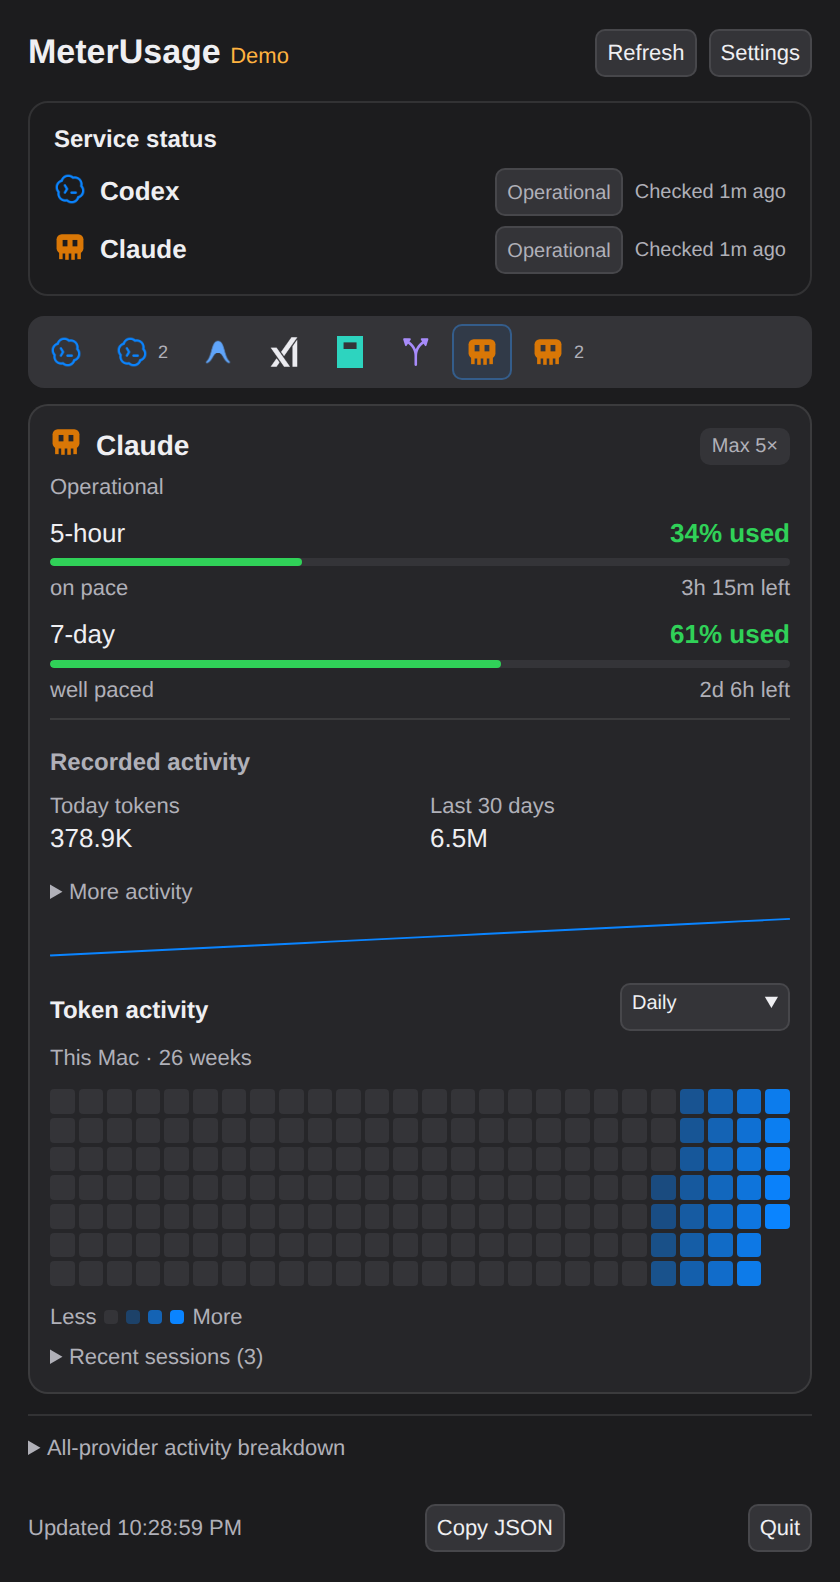
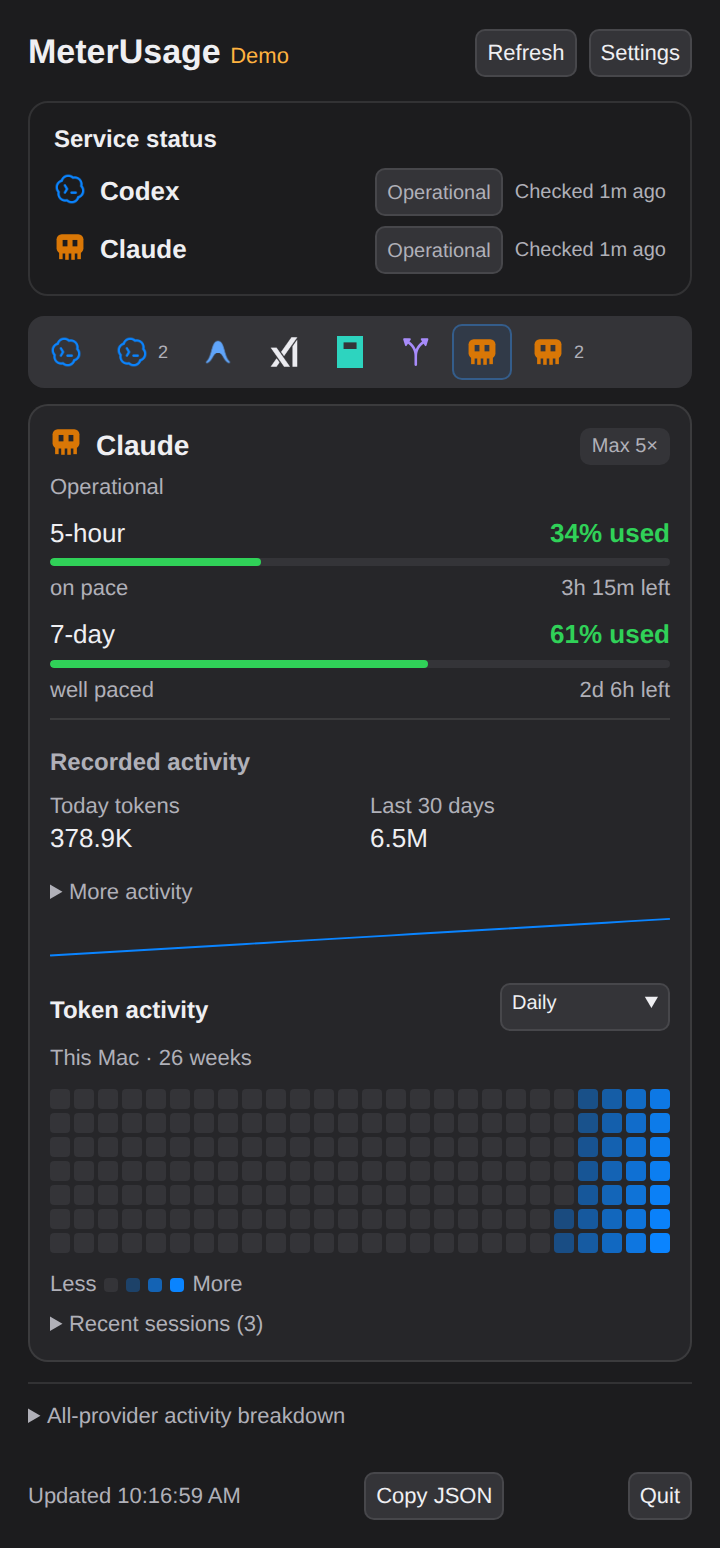
docs: document public beta 4, build 73

diff --git a/README.md b/README.md
@@ -12,7 +12,7 @@ Swift app remains the stable download and rollback option during migration.
 
 | Edition | Current status | Setup and behavior |
 | --- | --- | --- |
-| Electron 0.3.0-beta.1, build 54 | Public beta for Apple silicon, macOS 13+; signed and notarized | [Download beta](https://github.com/pekth/meterusage/releases/tag/v0.3.0-beta.1) · [Beta guide](docs/BETA.md) |
+| Electron 0.3.0-beta.4, build 73 | Public beta for Apple silicon, macOS 13+; signed and notarized | [Download beta](https://github.com/pekth/meterusage/releases/tag/v0.3.0-beta.4) · [Beta guide](docs/BETA.md) |
 | Legacy Swift 0.2.41 | Frozen for new features; published stable download and migration rollback | [Swift guide](docs/swift/README.md) |
 
 Electron is the active app for new features. Swift remains the stable download
@@ -29,26 +29,19 @@ and the [version strategy](docs/VERSIONS.md).
   <img src="docs/images/beta-notch-claude.png" alt="Electron beta hover card and compact side-notch usage rail" width="256">
 </p>
 
-Synthetic demo captures of build 54's renderer. Claude Desktop provides allowance,
-not a chat-history heatmap. See the [full screenshot gallery and capture details](docs/SCREENSHOTS.md)
+Synthetic demo captures of build 61's renderer. Claude Desktop provides allowance,
+not chat history; its heatmap shows daily quota used across devices. See the [full screenshot gallery and capture details](docs/SCREENSHOTS.md)
 for Codex, Claude, side notch and Settings.
 
 The beta includes Codex browser sign-in/account history, optional Claude Desktop
 allowance, existing CLI sources, compact provider tabs and hover cards, provider
 reordering and readable token totals. Account coverage depends on the source.
-Build 54 keeps Grok Beta CLI-only; Antigravity desktop login is follow-up work.
-Current source additionally offers opt-in [Grok Bot Desktop Beta](docs/DESKTOP-CONNECTIONS.md#grok-bot-desktop-beta).
-Sign in through Grok Bot Desktop first, then approve read-only access.
-Native/live allowance, X and shared-pool coverage remain unverified.
-Current source also adds separate [OpenAI API and Anthropic API billing snapshots](docs/API_USAGE_BETA.md)
-through Settings → API connections with a saved legacy Admin key, a one-time
-Admin key, or the bundled environment-only helper. Existing Keychain entries
-are preserved; pasted keys are not saved. OpenRouter keeps its existing
-account balance and aggregate activity integration.
-Unreleased source adds opt-in [Muse Code CLI allowance](docs/DESKTOP-CONNECTIONS.md#muse-code-cli).
-Muse.ai cloud/Desktop connection is separate and remains pending.
-Build 54's Settings footer incorrectly says `0.2.41`; the packaged version is
-`0.3.0-beta.1`. See [known beta limits](docs/BETA.md#known-limits).
+The beta also includes Antigravity Desktop allowance, Grok Bot Desktop (Beta),
+key-free OpenCode Go local setup and separate [API billing](docs/API_USAGE_BETA.md)
+under Settings → API connections. Reuse a legacy saved Admin key or enter a
+one-time key. Pasted keys are not saved. OpenRouter retains its existing balance
+and activity integration. Desktop compatibility and billing coverage vary;
+see [known beta limits](docs/BETA.md#known-limits).
 
 ## Stable Swift installation
 
@@ -74,38 +67,40 @@ fall back to compilation. See the [Swift installation guide](docs/swift/README.m
 
 ## Setup and data coverage
 
-The original nine provider adapters remain in the retained Swift and candidate source:
+All nine provider adapters remain in the retained Swift and candidate source:
 Codex, Claude Code, Antigravity, OpenRouter, Grok, OpenCode Go, Cursor, Copilot
 CLI and Gemini CLI. Their inputs and available measurements differ. The
 [Swift provider matrix](docs/swift/README.md#provider-matrix) describes existing
-CLI/local collection. The [Electron source choices](docs/electron/README.md#source-choices)
+CLI/local collection. The [Electron source choices](https://github.com/pekth/meterusage/blob/v0.3.0-beta.4/docs/electron/README.md#source-choices)
 also describe optional Codex browser sign-in and Claude Desktop allowance.
 
 Local activity covers this Mac. Provider-reported account data has its own
 coverage limits. Missing tokens remain unknown. Local token costs are estimates; optional API
 billing cards label provider-reported amounts separately. Provider dashboards
-remain the billing source of record. Read the [privacy contract](docs/PRIVACY.md)
-before changing a data source or sharing screenshots.
+remain the billing source of record. Read the [beta privacy contract](https://github.com/pekth/meterusage/blob/v0.3.0-beta.4/docs/PRIVACY.md)
+for Electron or the [Swift privacy contract](docs/PRIVACY.md) before changing a
+data source or sharing screenshots.
 
 ## Can both editions coexist?
 
-Both source trees remain during migration; the intended end state is one
+The beta tag contains the Electron source and retained Swift tree. The default
+branch retains stable Swift source during migration; the intended end state is one
 Electron app. Normal-profile side-by-side installation is unsafe:
 the app name, bundle ID and default preferences/data locations are shared.
-Use only the documented [isolated candidate QA profiles](docs/electron/README.md#isolated-qa)
+Use only the documented [isolated candidate QA profiles](https://github.com/pekth/meterusage/blob/v0.3.0-beta.4/docs/electron/README.md#isolated-qa)
 for testing. A separate app identity and data root require a later decision;
-there is no automatic cutover. See [ADR 0010](docs/adr/0010-macos-typescript-electron.md).
+there is no automatic cutover. See [ADR 0010](https://github.com/pekth/meterusage/blob/v0.3.0-beta.4/docs/adr/0010-macos-typescript-electron.md).
 
 ## Documentation
 
 - [Beta download, verification and limits](docs/BETA.md)
 - [Current beta screenshots](docs/SCREENSHOTS.md)
 - [Swift guide](docs/swift/README.md)
-- [Electron guide and known gaps](docs/electron/README.md)
+- [Electron guide and known gaps](https://github.com/pekth/meterusage/blob/v0.3.0-beta.4/docs/electron/README.md)
 - [Versions and staged Swift retirement](docs/VERSIONS.md)
 - [Contributing](CONTRIBUTING.md)
 - [Project knowledge](docs/KB.md) and [decision index](docs/adr/README.md)
-- [Desktop connections](docs/DESKTOP-CONNECTIONS.md), [demo mode](docs/DEMO.md)
+- [Desktop connections](https://github.com/pekth/meterusage/blob/v0.3.0-beta.4/docs/DESKTOP-CONNECTIONS.md), [demo mode](docs/DEMO.md)
   and [side notch](docs/SIDE-NOTCH.md)
 - [Concept mockups](docs/mockups/README.md) and [changelog](CHANGELOG.md)
 
@@ -118,11 +113,11 @@ the Swift guide; product screenshots now show the Electron beta.
 See [downloads](#download).
 
 <a id="macos-electron-migration-candidate"></a>
-See the [Electron candidate guide](docs/electron/README.md).
+See the [Electron candidate guide](https://github.com/pekth/meterusage/blob/v0.3.0-beta.4/docs/electron/README.md).
 
 <a id="second-accounts"></a>
 See [Swift additional local accounts](docs/swift/README.md#second-accounts) and
-[Electron advanced local accounts](docs/electron/README.md#advanced-local-accounts).
+[Electron advanced local accounts](https://github.com/pekth/meterusage/blob/v0.3.0-beta.4/docs/electron/README.md#advanced-local-accounts).
 
 <a id="requirements"></a>
 See [Swift requirements](docs/swift/README.md#requirements).
@@ -132,7 +127,7 @@ See [contributor setup](CONTRIBUTING.md).
 
 <a id="agent-budget-cli"></a>
 See the [Swift Agent Budget CLI](docs/swift/README.md#agent-budget-cli) and
-[Electron commands](docs/electron/README.md#build-and-test).
+[Electron commands](https://github.com/pekth/meterusage/blob/v0.3.0-beta.4/docs/electron/README.md#build-and-test).
 
 <a id="showcase"></a><a id="-showcase"></a>
 <a id="ambient-time-to-empty--side-notch-hud"></a>
@@ -149,8 +144,13 @@ See [Swift behavior](docs/swift/README.md#key-features).
 <a id="privacy--architecture"></a><a id="-privacy--architecture"></a>
 See [privacy and data handling](docs/PRIVACY.md).
 
+<a id="download-and-installation"></a>
 <a id="install-the-prebuilt-app"></a><a id="from-a-git-checkout-no-swift"></a>
 See [installation details](docs/swift/README.md#download-and-installation).
+
+<a id="report-a-problem"></a>
+See [beta diagnostics and bug reports](docs/BETA.md#known-limits) and the
+[beta reporting guide](https://github.com/pekth/meterusage/blob/v0.3.0-beta.4/docs/REPORTING.md).
 
 <a id="-tldr"></a><a id="tldr"></a>
 See [downloads](#download).

diff --git a/docs/BETA.md b/docs/BETA.md
@@ -1,13 +1,13 @@
 # Electron public beta
 
-MeterUsage **0.3.0-beta.1, build 54** is an opt-in macOS beta. The ZIP supports
+MeterUsage **0.3.0-beta.4, build 73** is an opt-in macOS beta. The ZIP supports
 Apple silicon and macOS 13 or later. It is Developer ID signed, notarized and
 stapled. Swift `0.2.41` remains the stable release and updater download.
 
 ## Install
 
-1. Download [the beta ZIP](https://github.com/pekth/meterusage/releases/download/v0.3.0-beta.1/MeterUsage-0.3.0-beta.1-mac-arm64.zip)
-   and [SHA256SUMS](https://github.com/pekth/meterusage/releases/download/v0.3.0-beta.1/SHA256SUMS).
+1. Download [the beta ZIP](https://github.com/pekth/meterusage/releases/download/v0.3.0-beta.4/MeterUsage-0.3.0-beta.4-mac-arm64.zip)
+   and [SHA256SUMS](https://github.com/pekth/meterusage/releases/download/v0.3.0-beta.4/SHA256SUMS).
 2. Quit MeterUsage and keep a copy of your existing app and its saved data for
    rollback. The beta shares the app identity and data locations with Swift.
 3. Unzip the download, move `MeterUsage.app` to Applications, and open it.
@@ -27,7 +27,7 @@ shasum -a 256 -c SHA256SUMS
 Expected ZIP SHA-256:
 
 ```text
[2 lines of base64/hex data omitted]
 ```
 
 ## Provider coverage
@@ -41,19 +41,47 @@ ec4e8878e6a35120b397d8c118d023f010e8a6952a257b75764f05ecbc6f52ba
   read current allowance through a compatibility endpoint. Some accounts,
   including free accounts, may have no allowance token. This does not sign the
   user out of Claude Desktop. Desktop chat/token history is not collected.
+- Every provider card with a quota reading shows a **Quota activity** heatmap:
+  the daily rise in that provider's weekly (or longest) allowance, counting
+  desktop, web and other-device use. Each provider keeps its own history.
+  On first run, the current window's usage is spread over its elapsed days and
+  marked estimated; earlier weeks are not backfilled. Days count only while
+  MeterUsage refreshes; offline usage lands on the next reading's day. Values
+  are percentage points, never inferred tokens. Tooltips add measured Claude
+  Code or Codex tokens from this Mac when present.
 - Claude Code CLI reads local transcript activity. Quota requires an optional
   companion file. Local activity does not cover other devices.
-- Existing Grok CLI, Antigravity container, OpenCode Go and other adapters retain
-  their source-specific limits. New Antigravity Desktop and Grok/Cursor login
-  integrations are not included. Grok consumer web sign-in is unavailable.
+- Antigravity Desktop reads account allowance from one running, signed-in
+  language server. The owner confirmed a live connection; broad compatibility
+  and an automated desktop-versus-CLI comparison remain incomplete. Local CLI
+  activity stays separate.
+- Grok Bot Desktop (Beta) reads the active account's encrypted local credential
+  after consent and requests allowance. Quota burn needs recent same-account
+  observations and is measured in percentage points per hour, not tokens.
+  Live burn-rate and broad endpoint compatibility remain unverified. Existing
+  saved Cursor connections retain their original source. Consumer web sign-in
+  is unavailable.
+- OpenCode Go offers local session history without a key. Allowance separately
+  requires an existing Go key saved by OpenCode. Only Go sessions count.
+- OpenAI API and Anthropic API billing use separate owner-only snapshots.
+  Settings → API connections can reuse a provider's fixed legacy Keychain
+  Admin key or accept a masked one-time Admin key. Original saved keys are
+  preserved and newly pasted keys are not saved. OpenRouter keeps its existing
+  balance and aggregate activity source. Read [API setup and limits](API_USAGE_BETA.md).
 
-See [source choices](electron/README.md#source-choices),
-[desktop connections](DESKTOP-CONNECTIONS.md) and [privacy](PRIVACY.md).
+See [source choices](https://github.com/pekth/meterusage/blob/v0.3.0-beta.4/docs/electron/README.md#source-choices),
+[desktop connections](https://github.com/pekth/meterusage/blob/v0.3.0-beta.4/docs/DESKTOP-CONNECTIONS.md) and [privacy](https://github.com/pekth/meterusage/blob/v0.3.0-beta.4/docs/PRIVACY.md).
 
 ## Known limits
 
-- Settings displays a hardcoded `0.2.41` footer. The installed bundle and beta
-  download are version `0.3.0-beta.1`, build 54. A footer fix is separate work.
+- Settings now shows the running bundle version. Source previews omit it when
+  packaging metadata is absent.
+- The tray renderer preloads after completed onboarding. Native first-click
+  latency has not been measured, so no timing guarantee is made.
+- OpenAI saved-key recovery through the installed signed helper succeeded.
+  The live Settings button journey, Anthropic billing, invoice completeness
+  and live Grok burn-rate acceptance remain unverified. Anthropic Priority
+  Tier costs are excluded.
 - Native keyboard/VoiceOver, complete setup/account/offline journeys,
   notifications/login items, sharing, update/relaunch/rollback and multi-display
   notch transitions have incomplete acceptance coverage. These are gaps in
@@ -65,18 +93,22 @@ See [source choices](electron/README.md#source-choices),
 
 Use Settings > Diagnostics for sanitized diagnostics and **Send report**.
 The app limits report attempts to one every ten minutes, including relaunches.
-Review the [report contents and privacy limits](REPORTING.md) before sending.
+Review the [report contents and privacy limits](https://github.com/pekth/meterusage/blob/v0.3.0-beta.4/docs/REPORTING.md) before sending.
 Never include tokens, passwords or raw account files in an issue.
 
 ## Build and screenshot identity
 
 The signed artifact was built from source
-`6ce695324e54bb09bf6e5ab36fd4733875c94427`. Release documentation and new
-screenshots are a documentation-only descendant; executable inputs are unchanged.
-Source manifests retain `0.2.41`; beta packaging explicitly set `0.3.0-beta.1`.
+`3c56bd0d4ebf6d51996b9ebdc0a9b09f5570f182`. Release documentation is a documentation-only descendant; executable
+inputs are unchanged. Screenshots are from build 61 and do not show the Quota
+activity heatmap. Source manifests retain `0.2.41`; beta packaging explicitly
+set `0.3.0-beta.4`.
 
-Matching validation recorded 417 synthetic tests across 19 files, TypeScript
-checking and production bundling. Signing, notarization, stapling, Gatekeeper,
+Matching validation recorded 846 tests across 33 files on macOS, TypeScript
+checking and production bundling. Swift build and tests were not rerun for this
+beta. The installed build was observed recording quota activity for Claude,
+Codex, Antigravity and Grok. Native rendering of filled heatmaps
+remains unverified. Signing, notarization, stapling, Gatekeeper,
 installed bundle identity and ZIP bytes were verified separately. These checks
 do not close the native acceptance gaps above.
 

diff --git a/docs/VERSIONS.md b/docs/VERSIONS.md
@@ -1,92 +1,22 @@
-# MeterUsage versions and repository strategy
+# MeterUsage versions
 
-Electron is the sole active target for new features. Electron **0.3.0-beta.1,
-build 54** is an opt-in public prerelease. Swift **0.2.41** remains the stable
-download and rollback reference. The beta does not replace the stable updater.
+Electron 0.3.0-beta.4, build 73, is the opt-in public beta. Swift 0.2.41 stays
+stable and remains the updater/installer download. New features target Electron;
+Swift is retained for critical maintenance and rollback.
 
-## Current layout and status
-
-| Area | Retained Swift | Electron beta |
+| Version | Source | Download |
 | --- | --- | --- |
-| Development | Critical fixes and transition compatibility | All new features |
-| Source | `Sources/`, `Tests/`, `Package.swift` | `src/`, `tests/`, `package.json` |
-| Download version | 0.2.41 | 0.3.0-beta.1, build 54 |
-| Source metadata | 0.2.41 | Manifest retains 0.2.41; packaging overrides it |
-| User installation | Pinned Swift ZIP via `Scripts/make-app.sh` | Manual signed/notarized Apple silicon ZIP |
-| Updates | Stable release only | Manual beta downloads; no beta updater |
-| Guide | [Swift](swift/README.md) | [Beta installation and limits](BETA.md), [Electron](electron/README.md) |
+| Electron beta | [v0.3.0-beta.4](https://github.com/pekth/meterusage/tree/v0.3.0-beta.4) | [Manual signed/notarized Apple silicon ZIP](BETA.md) |
+| Swift stable | Default branch and [v0.2.41](https://github.com/pekth/meterusage/tree/v0.2.41) | [Swift guide](swift/README.md) |
 
-Build 54 was built from `6ce695324e54bb09bf6e5ab36fd4733875c94427`.
-The beta tag also carries refreshed documentation and screenshots; its
-executable inputs are unchanged. Its Settings footer still incorrectly displays
-`0.2.41`. See [known limits and verification](BETA.md#known-limits).
+The beta source is published through its tag while the Electron PR stack stays
+unmerged. The tag includes current documentation and build 61 synthetic screenshots;
+its executable inputs match build source
+`3c56bd0d4ebf6d51996b9ebdc0a9b09f5570f182`. The beta's package version was set
+at packaging time; its source manifest retains 0.2.41. Settings shows the
+running bundle version. See [known beta limits](BETA.md#known-limits).
 
-The beta source and signed bundle have separate recorded checks. Native
-acceptance remains incomplete and is disclosed for this opt-in prerelease.
-Stable cutover, stack merge and Swift source retirement remain separate work.
-
-## Repository coexistence and app isolation
-
-Both implementations remain in one repository during migration. The intended
-end state is one Electron app. Two normally installed apps cannot safely share
-the present identity and data locations.
-[ADR 0010](adr/0010-macos-typescript-electron.md) retains `MeterUsage.app`,
-executable `meterusage`, bundle ID `dev.meterusage.app`, preference keys and
-history/archive formats. There is no automatic cutover or new durable-data
-migration. Swift remains the behavior reference and rollback path.
-
-Only documented isolated demo/test profiles are supported for candidate QA.
-They isolate preferences, history, caches and Electron state; live test modes
-retain only their explicitly permitted provider access. See
-[Electron isolated QA](electron/README.md#isolated-qa) and [privacy](PRIVACY.md).
-A distinct app ID and data root would require a later decision before true
-side-by-side installation. A single-app replacement can retain the existing
-identity after its compatibility and update/rollback checks pass. This decision
-does not rename apps or perform the replacement.
-
-<a id="proposed-same-repository-strategy"></a>
-## Accepted development and retirement strategy
-
-The owner selected one active implementation in
-[ADR 0024](adr/0024-electron-primary-swift-retirement.md). This supersedes the
-earlier proposal to maintain two editions as a long-term direction. ADR 0010's
-data compatibility, native acceptance and no-automatic-cutover rules still apply.
-
-1. Freeze new Swift features now. Route feature work to Electron; keep Swift for
-   critical maintenance, transition compatibility and rollback.
-2. Close agreed setup/parity gaps and complete source/native acceptance on the
-   exact Electron candidate, including preserved saved data and measured native
-   performance. Keep intentional UI removals intact.
-3. Verify deliberate update and rollback before public cutover. Preserve the
-   current Swift download and installer contract until the replacement is ready.
-   The opt-in beta is published separately; stable cutover still requires these checks.
-4. Preserve the retrievable legacy source revision and matching release artifact,
-   then remove old-app-only source, tests, build steps and obsolete CI references
-   from the active branch in a reviewed change. No second repository is needed.
-
-Keep `Scripts/electron/desktop-keychain.swift`,
-`Scripts/electron/export-symbols.swift`, required `Resources/` assets and shared
-fixtures/contracts used by Electron. Trace dependencies before removing legacy
-files. Retiring the Swift application does not mean deleting all Swift files.
-
-Source removal, workflow changes and stable cutover remain pending. Publishing
-the manual beta does not change the stable download contract.
-
-### Update-channel prerequisites
-
-Both the [Swift updater](../Sources/MeterUsage/Services/UpdateChecker.swift) and
-[Electron updater](../src/main/updater.ts) request GitHub's `/releases/latest`
-endpoint and expect an asset named `MeterUsage-<version>.zip`. Electron's release
-parser accepts only numeric stable versions such as `0.2.41`; it rejects
-prerelease tags. Neither updater currently selects an edition-specific channel.
-
-An optional Electron beta channel needs explicit routing, prerelease parsing
-and matching asset validation. It does not require a permanent second edition.
-Preserve the existing Swift asset contract for installed clients. Renaming ZIPs
-or publishing a prerelease alone does not implement this routing. Verify that
-stable clients receive only the intended tested replacement before changing
-release assets. The current updater is unchanged.
-
-No competitor feature or parity fix is implemented by this documentation change.
-See the [candidate gaps](electron/README.md#known-parity-gaps),
-[contribution routing](../CONTRIBUTING.md) and [accepted decision index](adr/README.md).
+The apps share an identity and normal data locations. Quit one before replacing
+it and preserve a rollback copy. Do not run both against a normal profile.
+Stable cutover and Swift retirement remain separate work, defined in the
+[beta repository strategy](https://github.com/pekth/meterusage/blob/v0.3.0-beta.4/docs/VERSIONS.md).

diff --git a/docs/SCREENSHOTS.md b/docs/SCREENSHOTS.md
@@ -1,10 +1,11 @@
 # Beta screenshots
 
-These captures show Electron **0.3.0-beta.1, build 54** using invented demo
+These captures show Electron **0.3.0-beta.3, build 61** using invented demo
 data. They use the release renderer at source revision
-`6ce695324e54bb09bf6e5ab36fd4733875c94427`, captured in a browser at 2x pixel
-density. Required generated provider marks come from the signed release bundle.
-Only unused canvas below the app is cropped. Browser fonts and window framing
+`c2d092cb92180b37a686582a904dbd0129bc371c`, captured in a browser at 2x pixel
+density. The capture tool scales wide Settings images to 1280 pixels. Required generated provider marks come from the signed release bundle.
+Only unused canvas below the app is cropped. The social preview combines two
+current captures without changing their contents. Browser fonts and window framing
 can differ from macOS; these images do not prove native behavior.
 
 ## Usage
@@ -35,8 +36,10 @@ positioning on a Mac. Details open on hover; the rail has one design and no pin.
 
 ![Appearance and panel sizing](images/beta-settings-appearance.png)
 
-Build 54's Settings footer still says `0.2.41`. The packaged app version is
-`0.3.0-beta.1`; the footer is a known cosmetic issue in this beta.
+![Separate API connections](https://github.com/pekth/meterusage/blob/v0.3.0-beta.3/docs/images/beta-settings-api.png)
+
+API access is disabled in the synthetic demo. Source previews omit the version
+footer when bundle metadata is absent; the installed app shows its bundle version.
 
 ## Sharing
 

diff --git a/docs/KB.md b/docs/KB.md
@@ -1,6 +1,6 @@
 # Project knowledge
 
-Release documentation refresh: 2026-10-16; build 54 source review is unchanged.
+Release documentation refresh: 2026-10-22 for build 73.
 
 ## Edition documentation
 
@@ -10,7 +10,7 @@ Release documentation refresh: 2026-10-16; build 54 source review is unchanged.
   native acceptance, deliberate cutover and retrievable archive checks pass.
   Source retirement is pending. Electron-required Swift helpers and assets stay.
 - [Swift 0.2.41](swift/README.md) is the published default install route.
-  [Electron 0.3.0-beta.1, build 54](BETA.md) is an opt-in public prerelease,
+  [Electron 0.3.0-beta.4, build 73](BETA.md) is an opt-in public prerelease,
   signed and notarized for Apple silicon. Native acceptance remains incomplete.
   Source manifests and its cosmetic Settings footer still say 0.2.41; packaging
   explicitly sets the beta version. Stable updaters do not offer the beta.
